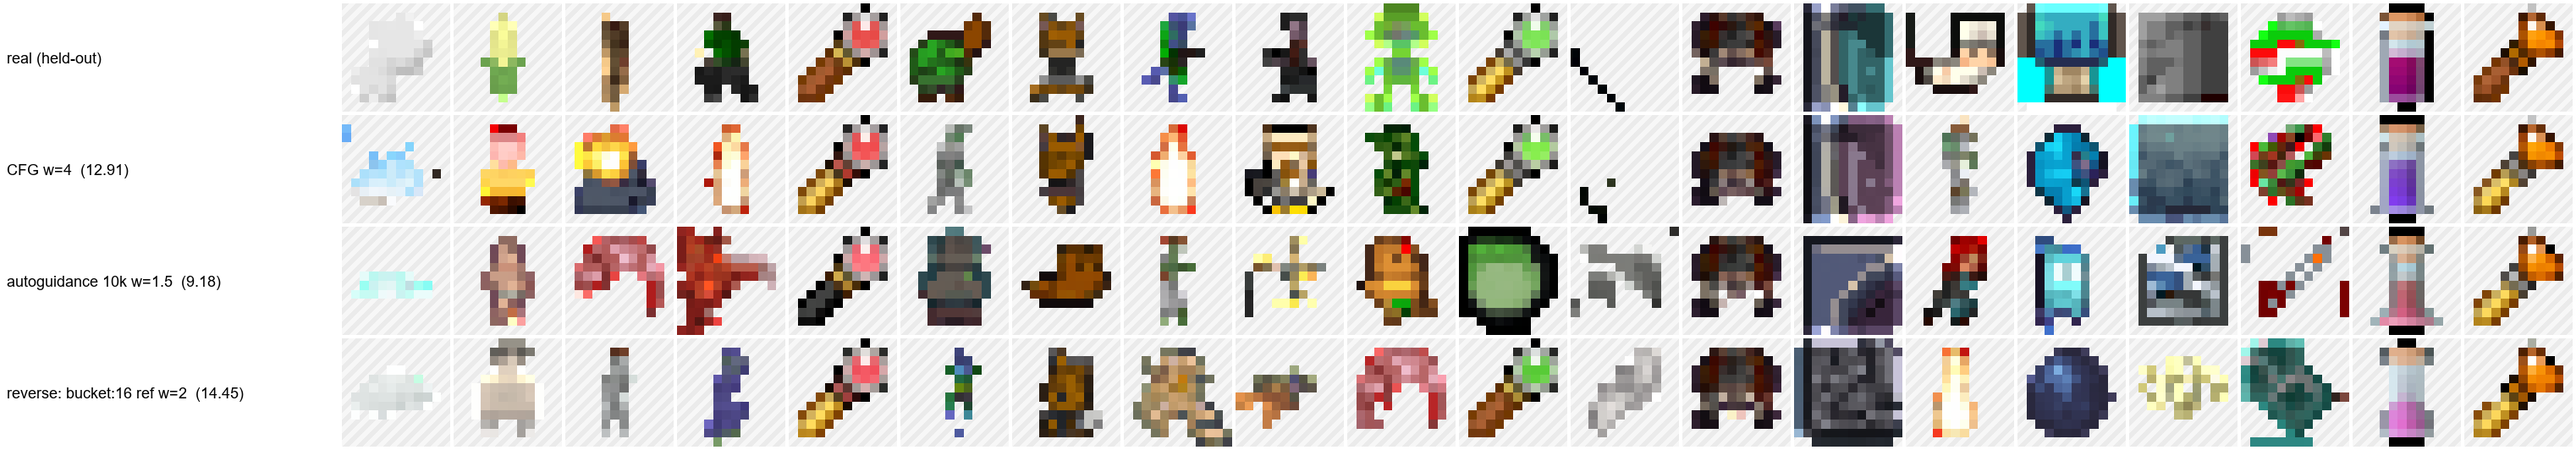
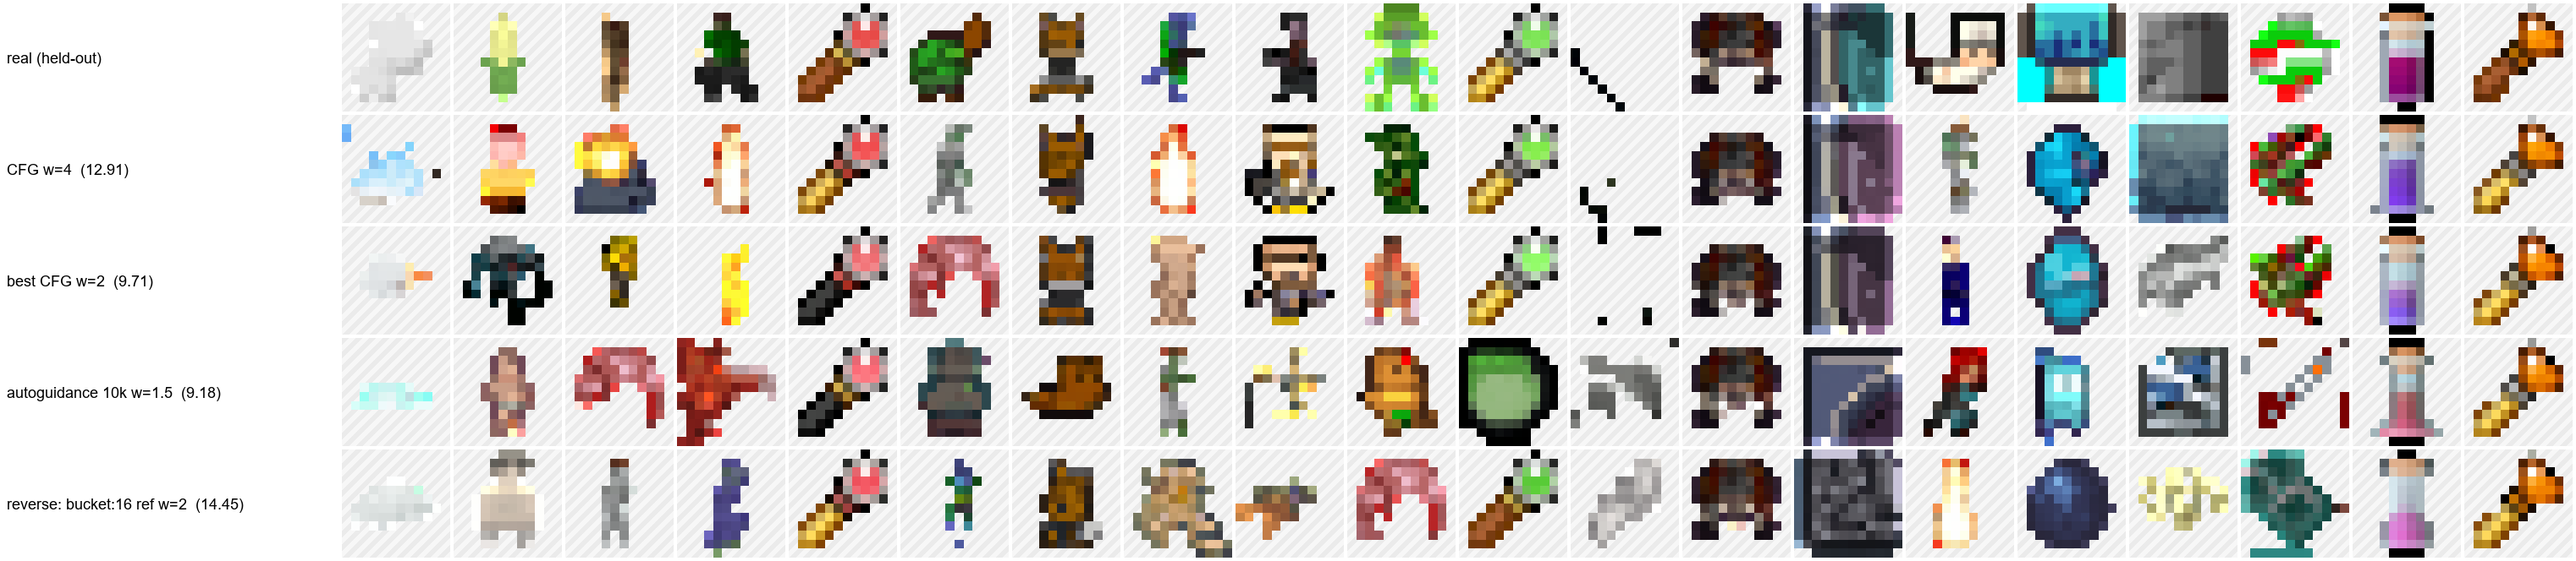
qualitative figures: add best-CFG row and composed-bucketu row at every resolution (samples pulled, no new sampling)

diff --git a/paper_assets/make_qual_r.py b/paper_assets/make_qual_r.py
@@ -12,19 +12,19 @@ from PIL import Image, ImageDraw, ImageFont
 Q = Path("paper_assets/qual_r")
 E = "_matched_eval"
 FIGS = {
-    12: [("real (held-out)", None), ("CFG w=4  (12.91)", "v7h_r12_cfg4"), ("autoguidance 10k w=1.5  (9.18)", "v7h_r12_autog10k_w1p5"),
+    12: [("real (held-out)", None), ("CFG w=4  (12.91)", "v7h_r12_cfg4"), ("best CFG w=2  (9.71)", "v7h_r12_cfg2"), ("autoguidance 10k w=1.5  (9.18)", "v7h_r12_autog10k_w1p5"),
          ("reverse: bucket:16 ref w=2  (14.45)", "v7h_r12_bk16_w2")],
-    16: [("real (held-out)", None), ("CFG w=4  (21.98)", "v7h"), ("autoguidance 10k w=1.5  (8.98)", "v7h_autog10k_w1p5"),
-         ("bucket:12 self-guidance w=2  (8.59)", "v7h_gbk12_w2"), ("composed: 10k under bucket:12 w=1.5  (7.67)", "v7h_gbk12s10k_w1p5"),
+    16: [("real (held-out)", None), ("CFG w=4  (21.98)", "v7h"), ("best CFG w=1.5  (12.24)", "v7h_cfg1p5"), ("autoguidance 10k w=1.5  (8.98)", "v7h_autog10k_w1p5"),
+         ("bucket:12 self-guidance w=2  (8.59)", "v7h_gbk12_w2"), ("composed: 10k under bucket:12 w=1.5  (7.67)", "v7h_gbk12s10k_w1p5"), ("composed o bucketu:12 w=1.5  (8.60)", "v7h_bku12s10k_w1p5"),
          ("weak ref alone: bucket:12 belief  (36.43)", "v7h_bk12only"), ("reverse: bucket:24 ref w=2  (17.27)", "v7h_gbk24_w2")],
-    20: [("real (held-out)", None), ("CFG w=4  (45.92)", "v7h_r20_cfg4"), ("autoguidance 10k w=1.5  (31.78)", "v7h_r20_autog10k_w1p5"),
-         ("bucket:16 self-guidance w=2  (32.89)", "v7h_r20_bk16_w2"), ("composed: 10k under bucket:16 w=1.5  (29.66)", "v7h_r20_bk16s10k_w1p5"),
+    20: [("real (held-out)", None), ("CFG w=4  (45.92)", "v7h_r20_cfg4"), ("best CFG w=2.5  (39.53)", "v7h_r20_cfg2p5"), ("autoguidance 10k w=1.5  (31.78)", "v7h_r20_autog10k_w1p5"),
+         ("bucket:16 self-guidance w=2  (32.89)", "v7h_r20_bk16_w2"), ("composed: 10k under bucket:16 w=1.5  (29.66)", "v7h_r20_bk16s10k_w1p5"), ("composed o bucketu:16 w=1.5  (29.81)", "v7h_r20_bku16s10k_w1p5"),
          ("weak ref alone: bucket:16 belief  (94.02)", "v7h_r20_bk16only"), ("reverse: bucket:32 ref w=2  (59.13)", "v7h_r20_bk32_w2")],
-    24: [("real (held-out)", None), ("CFG w=4  (79.80)", "v7h_r24_cfg4"), ("autoguidance 10k w=1.5  (53.36)", "v7h_r24_autog10k_w1p5"),
-         ("bucket:16 self-guidance w=2  (60.41)", "v7h_r24_bk16_w2"), ("composed: 10k under bucket:16 w=1.5  (48.70)", "v7h_r24_bk16s10k_w1p5"),
+    24: [("real (held-out)", None), ("CFG w=4  (79.80)", "v7h_r24_cfg4"), ("best CFG w=2  (67.34)", "v7h_r24_cfg2"), ("autoguidance 10k w=1.5  (53.36)", "v7h_r24_autog10k_w1p5"),
+         ("bucket:16 self-guidance w=2  (60.41)", "v7h_r24_bk16_w2"), ("composed: 10k under bucket:16 w=1.5  (48.70)", "v7h_r24_bk16s10k_w1p5"), ("composed o bucketu:16 w=1.5  (49.78)", "v7h_r24_bku16s10k_w1p5"),
          ("weak ref alone: bucket:16 belief  (173.39)", "v7h_r24_bk16only"), ("reverse: bucket:32 ref w=2  (101.67)", "v7h_r24_bk32_w2")],
-    32: [("real (held-out)", None), ("CFG w=4  (96.85)", "v7h_r32_cfg4"), ("autoguidance 10k w=1.5  (75.23)", "v7h_r32_autog10k_w1p5"),
-         ("bucket:24 self-guidance w=2  (77.45)", "v7h_r32_bk24_w2"), ("composed: 10k under bucket:24 w=1.5  (69.27)", "v7h_r32_bk24s10k_w1p5"),
+    32: [("real (held-out)", None), ("CFG w=4  (96.85)", "v7h_r32_cfg4"), ("best CFG w=2  (83.65)", "v7h_r32_cfg2"), ("autoguidance 10k w=1.5  (75.23)", "v7h_r32_autog10k_w1p5"),
+         ("bucket:24 self-guidance w=2  (77.45)", "v7h_r32_bk24_w2"), ("composed: 10k under bucket:24 w=1.5  (69.27)", "v7h_r32_bk24s10k_w1p5"), ("composed o bucketu:24 w=1.5  (65.27)", "v7h_r32_bku24s10k_w1p5"),
          ("reverse: bucket:48 ref w=2  (113.93)", "v7h_r32_bk48_w2")],
 }
 NCOL, CELL, PAD, LABEL_W = 20, 128, 4, 400
